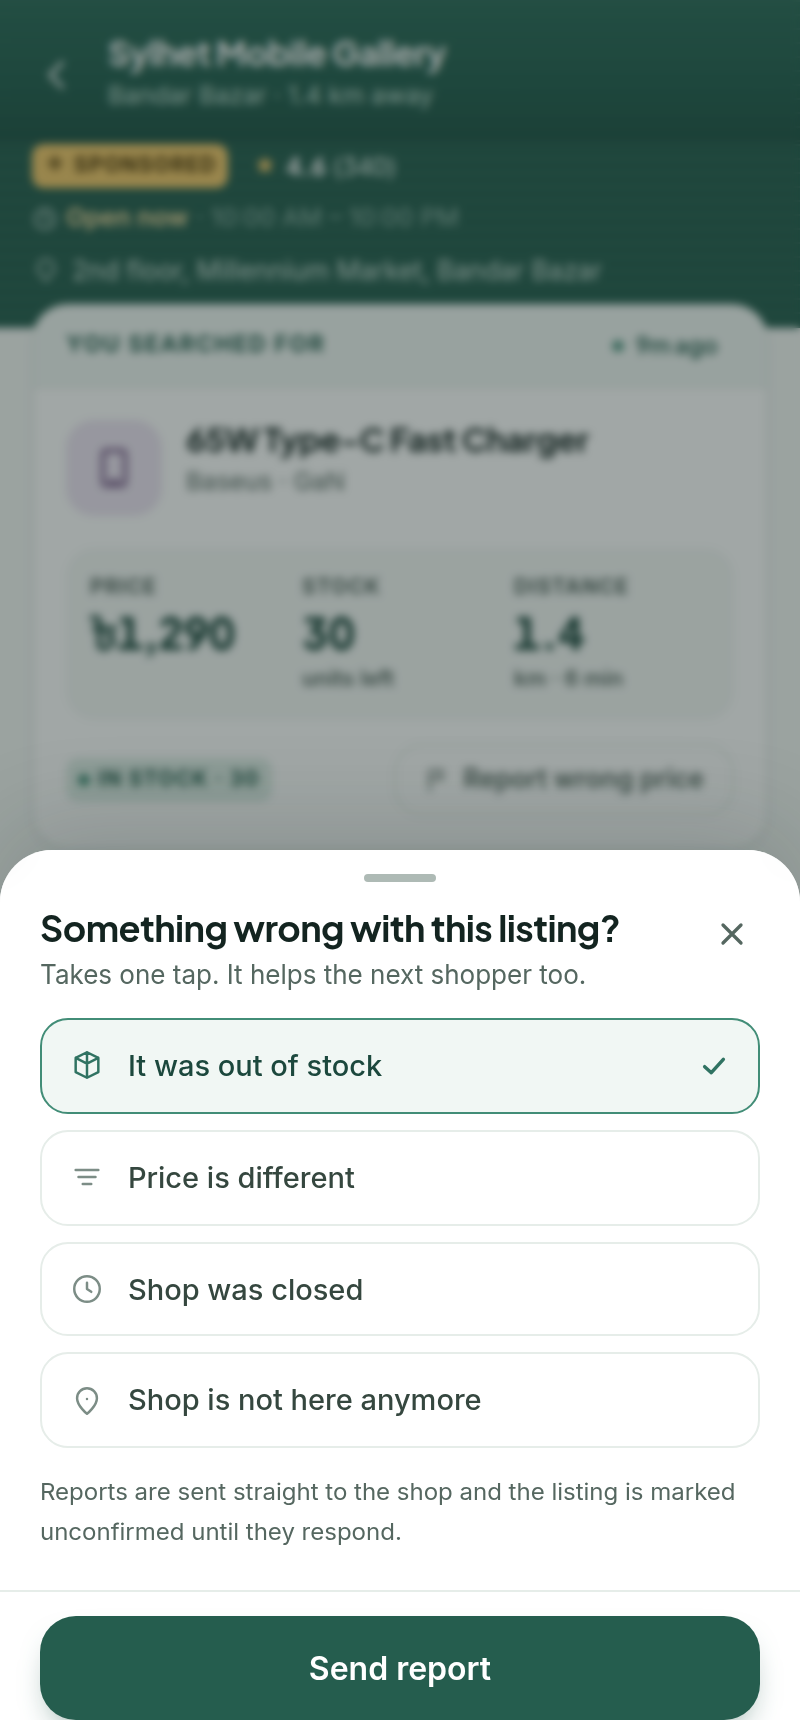
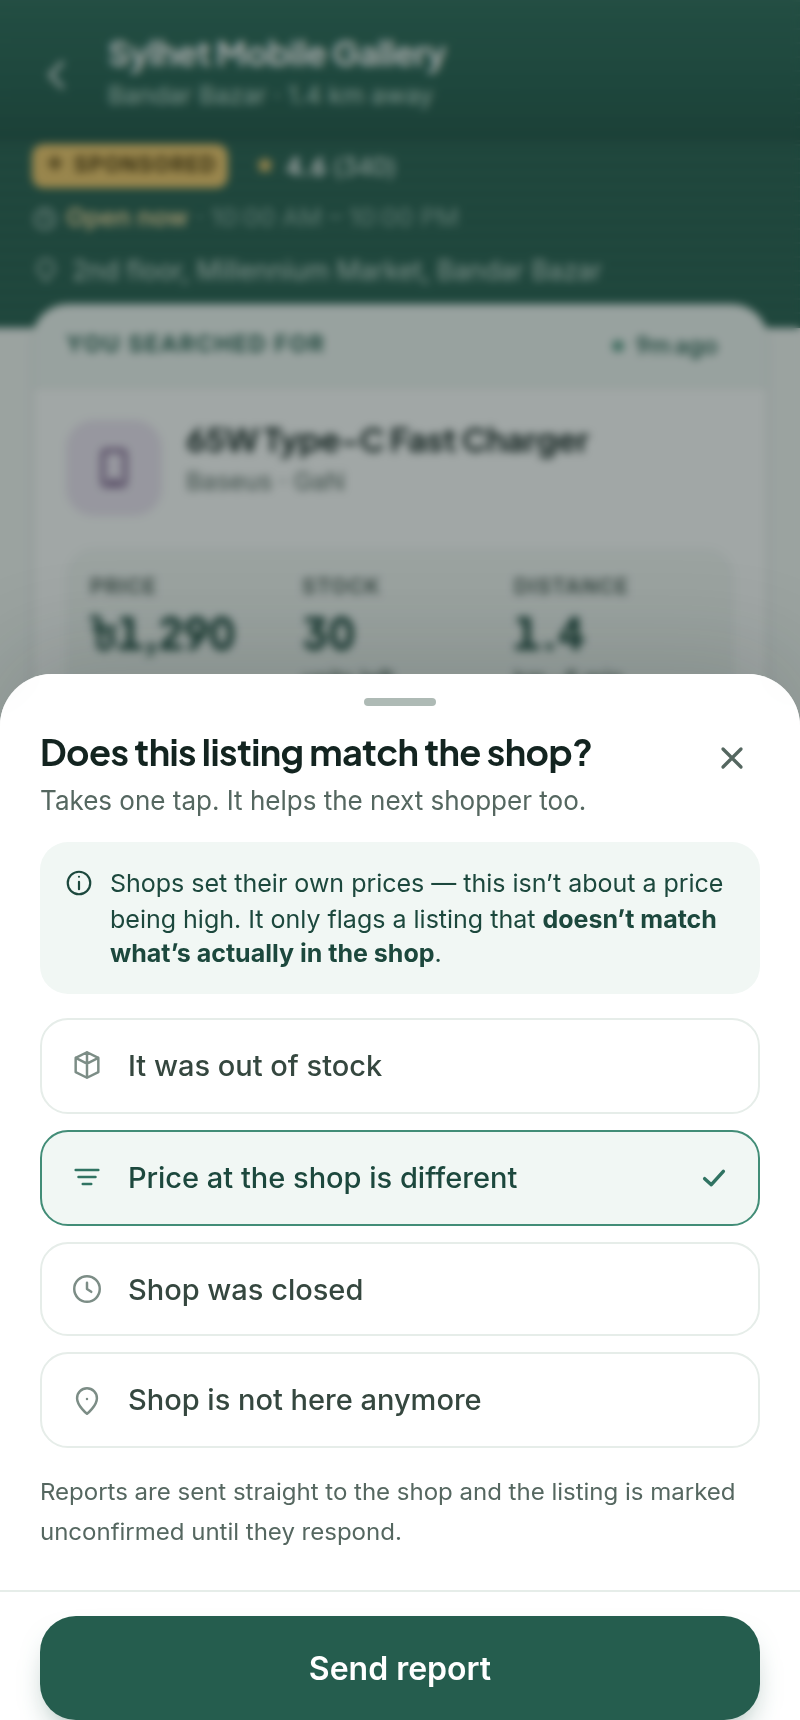
Rescope the listing report from pricing to accuracy
"Report wrong price" invited shoppers to flag a shop for being expensive.
Shops set their own prices, and retailers are the paying side of this market,
so a shopper-facing trust tool must not become a complaint channel aimed at
them.

The control now reads "Report incorrect info", the sheet asks "Does this
listing match the shop?", and an explainer states the boundary outright: this
is not about a price being high, only about a listing that does not match the
shelf. The price reason becomes "Price at the shop is different".

The feature itself stays — it answers the Shop Detail validation question,
where the churn risk is a wasted trip on stale data and the alternative is a
shopper who silently leaves. Reasoning recorded in the README validation table
and the in-app note. Screenshots re-captured to match.

diff --git a/src/screens/ShopDetail.jsx b/src/screens/ShopDetail.jsx
@@ -9,13 +9,22 @@ import { useStore } from '../lib/store'
  * Validation question (Shopper — Compelling Offer): what would make you stop
  * using the app? The script's churn risk is a wasted trip on a wrong listing.
  * So: the searched item's price / quantity / freshness sit above the fold, and
- * "Report wrong price or stock" is one tap away — a shopper who is let down
- * gets to fix the data instead of silently leaving.
+ * "Report incorrect info" is one tap away — a shopper who is let down gets to
+ * fix the data instead of silently leaving.
+ *
+ * Note the framing: shops set their own prices, so this is never a complaint
+ * channel about a price being high. Every reason is a mismatch between the
+ * listing and the shelf, which is the only thing that costs a shopper a trip.
  */
 
+/**
+ * Every reason is a mismatch between the listing and reality — never a
+ * judgement about the shop's pricing. Shops set their own prices; this control
+ * only exists so a stale or mistyped listing can be corrected.
+ */
 const REASONS = [
   { id: 'oos', label: 'It was out of stock', icon: 'box' },
-  { id: 'price', label: 'Price is different', icon: 'sort' },
+  { id: 'price', label: 'Price at the shop is different', icon: 'sort' },
   { id: 'closed', label: 'Shop was closed', icon: 'clock' },
   { id: 'gone', label: 'Shop is not here anymore', icon: 'pin' },
 ]
@@ -146,7 +155,7 @@ export default function ShopDetail({ nav, params }) {
                     hover:border-clay-200 hover:bg-clay-50 hover:text-clay-600 focus-visible:ring-clay-200"
                 >
                   <Icon name="flag" size={14} />
-                  Report wrong price
+                  Report incorrect info
                 </button>
               </div>
 
@@ -263,7 +272,7 @@ export default function ShopDetail({ nav, params }) {
       <Sheet
         open={reportOpen}
         onClose={() => setReportOpen(false)}
-        title="Something wrong with this listing?"
+        title="Does this listing match the shop?"
         subtitle="Takes one tap. It helps the next shopper too."
         footer={
           <button onClick={submitReport} disabled={!reason} className="btn btn-lg btn-primary w-full">
@@ -271,6 +280,15 @@ export default function ShopDetail({ nav, params }) {
           </button>
         }
       >
+        {/* States the boundary up front: this is not a complaint channel. */}
+        <div className="mb-3 flex items-start gap-2 rounded-xl bg-jade-50 p-3 text-[12.5px] leading-snug text-jade-800">
+          <Icon name="info" size={15} className="mt-[1px] shrink-0" />
+          <span>
+            Shops set their own prices — this isn’t about a price being high. It only flags a listing
+            that <b>doesn’t match what’s actually in the shop</b>.
+          </span>
+        </div>
+
         <div className="space-y-2">
           {REASONS.map((r) => {
             const on = reason === r.id

diff --git a/src/data/mockData.js b/src/data/mockData.js
@@ -434,7 +434,7 @@ export const VALIDATION = {
     source: 'Shopper — Compelling Offer Interview',
     question: 'What would make you stop using the app?',
     decision:
-      'The interview’s churn risk is a wasted trip. So the searched item’s price, quantity and freshness sit above the fold, and a one-tap “Report wrong price or stock” control lets a shopper correct the listing instead of silently leaving. Reported listings are visibly flagged for the next shopper.',
+      'The interview’s churn risk is a wasted trip. So the searched item’s price, quantity and freshness sit above the fold, and a one-tap “Report incorrect info” control lets a shopper correct the listing instead of silently leaving. It reports a mismatch between the listing and the shelf — never a complaint that a price is high, since shops set their own prices and retailers are the paying side of this market. Reported listings are visibly flagged for the next shopper.',
   },
   dashboard: {
     screen: 'Inventory Dashboard',

diff --git a/README.md b/README.md
@@ -111,7 +111,11 @@ Everything needed to decide to travel, above the fold.
 The trust loop. A wasted trip is the churn risk, so a let-down shopper fixes the data instead of
 silently leaving.
 
-- Four one-tap reasons: out of stock, price differs, shop closed, shop gone.
+- Four one-tap reasons: out of stock, price at the shop differs, shop closed, shop gone.
+- **Scoped to accuracy, not pricing.** Shops set their own prices, so this never reports a price for
+  being high — only a listing that doesn't match the shelf. The sheet says so explicitly, because
+  retailers are the paying side of this market and the trust loop must not become a complaint channel
+  aimed at them.
 - The listing is then **flagged on both the shop detail and the results row**, so the next shopper
   sees the warning too.
 
@@ -182,7 +186,7 @@ Everything below is real state, not a mock-up of state:
 | "Notify me when available" (empty search) | Registers a real alert; the button flips to a confirmed state instead of leaving a dead end |
 | "Notify on price drop" (shop detail) | Same alert store; toggles on and off with visible state |
 | Any item under "Also at this shop" | Opens a full price comparison for that item across every nearby shop |
-| "Report wrong price or stock" | Writes a report to the store; the listing is then flagged on both the shop detail **and** the results row |
+| "Report incorrect info" | Writes a report to the store; the listing is then flagged on both the shop detail **and** the results row |
 | Stock toggle (owner) | One tap flips `inStock`, zeroes/restores quantity, **and resets the "last updated" stamp to "just now"** |
 | "Confirm all" | Bulk-refreshes every stale listing and the nudge disappears |
 | Add item | Writes to the shared catalogue — the new item becomes searchable in the shopper flow |
@@ -240,7 +244,7 @@ on a laptop, ⓘ button on a phone), so it is visible to a grader without readin
 | **Welcome** | *Shopper — Compelling Offer:* how do people react to "Google Search for your local shelves"? | The pitch is stated in the interview's own words and immediately quantified with local supply (128 shops · 2,400 items · 2 km), plus a live ticker of nearby searches. Two role doors, so neither audience reads copy meant for the other. |
 | **Search** | *Shopper — Solution:* what did you actually do last time — how many shops did you call or visit? | Search is **item-first**, not shop-first, because people start from the product and end up ringing shops one by one. Every suggestion already carries "in stock at N shops · from ৳X · 0.6 km", so the ring-around is answered before the user even commits to a query. |
 | **Results** | *Shopper — Compelling Offer:* what do you need to see before you'd tap "Get Directions"? | Price, stock and distance are the three largest elements in every row, each with a **"last updated Xm ago"** stamp and a colour-coded freshness dot (green &lt;1 h, amber &lt;12 h, grey = unconfirmed). Sponsored rows are pinned first but labelled, and tapping the label explains that paying never changes price, stock or distance. |
-| **Shop Detail** | *Shopper — Compelling Offer:* what would make you stop using the app? | The churn risk is a wasted trip, so the searched item's price / quantity / freshness sit above the fold in a three-column block, and **"Report wrong price or stock"** is one tap. A let-down shopper fixes the data instead of silently leaving; reported listings are flagged for the next shopper. |
+| **Shop Detail** | *Shopper — Compelling Offer:* what would make you stop using the app? | The churn risk is a wasted trip, so the searched item's price / quantity / freshness sit above the fold in a three-column block, and **"Report incorrect info"** is one tap. A let-down shopper fixes the data instead of silently leaving; reported listings are flagged for the next shopper. Deliberately scoped to listing-vs-shelf mismatches, never to a price being high — shops set their own prices, and retailers are the paying side of this market. |
 | **Inventory Dashboard** | *Retailer — Compelling Offer:* how many minutes a day would you really spend, and is ৳500/month worth it? | A stock change is **one tap on the row** — nothing opens, nothing saves. The banner never just says "Go Premium": it states the measured loss (*42 nearby searches this week for items you carry · 12 shoppers tapped directions to shops ranked above you · you rank #6*) and prices it at ≈৳17/day. A stale-listing nudge ties owner effort directly to shopper trust. |
 | **Add / Update Item** | *Retailer — Compelling Offer:* barcode, manual, or spreadsheet? | We refuse to assume. All three are equal, first-class paths, and the scanner and CSV import are simulated end to end — so in a real interview we can watch which one a shopkeeper reaches for first. **That observation is the finding; the UI is the instrument.** |
 
@@ -263,8 +267,8 @@ Two extra validation instruments are built into the product rather than bolted o
 1. **Welcome** → "I'm a Shopper".
 2. Type `charger` → tap **65W Type-C Fast Charger**. Point at the freshness stamps and the Sponsored
    label; tap the label to show the disclosure. Sort by **Price**, then flip to **map**.
-3. Open **Sylhet Mobile Gallery** → show the price/stock/distance block → tap **Report wrong price
-   or stock** → send. Show the listing now flagged.
+3. Open **Sylhet Mobile Gallery** → show the price/stock/distance block → tap **Report incorrect
+   info** → send. Show the listing now flagged.
 4. Back to Welcome → **"I'm a Shop Owner"**.
 5. Toggle the **65W Type-C Fast Charger** off. One tap, and the stamp reads *just now*.
 6. Show the quantified upsell, then the **locked demand chart** below it → **Unlock with Premium** →
